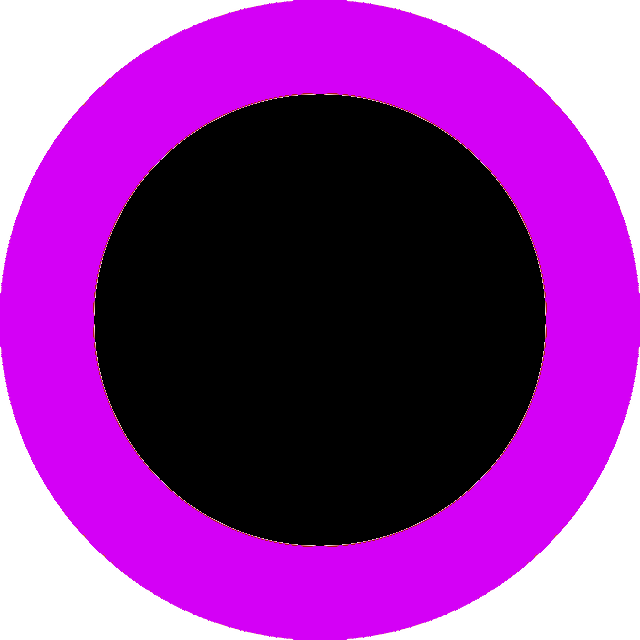
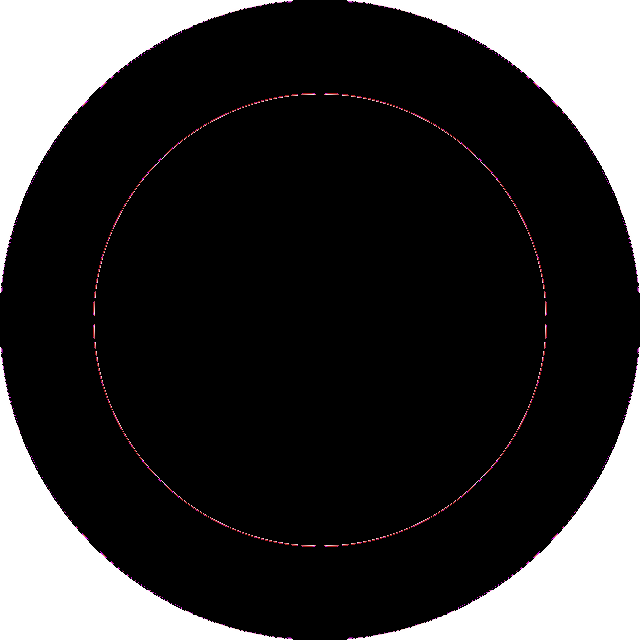
added background repeat image and opacity

diff --git a/src/components/ButtonPegs.jsx b/src/components/ButtonPegs.jsx
@@ -7,15 +7,15 @@ function ButtonPegs(){
 
 
 
-        const [currentColor, setCurrentColor] = useState("purple");
+        const [currentColor, setCurrentColor] = useState("white");
       
         const colors = {
-          red: { backgroundColor: "red",border:"solid", borderRadius:"10px", borderColor:"black" },
-          purple: { backgroundColor: "purple",border:"solid", borderRadius:"10px", borderColor:"black" },
-          green: { backgroundColor: "green",border:"solid", borderRadius:"10px", borderColor:"black" },
-          orange: { backgroundColor: "orange",border:"solid", borderRadius:"10px", borderColor:"black" },
-          blue: { backgroundColor: "blue",border:"solid", borderRadius:"10px", borderColor:"black" },
-          gray: { backgroundColor: "grey",border:"solid", borderRadius:"10px", borderColor:"black" },
+          red: { backgroundColor: "rgba(255, 0, 0, 0.50)",border:"solid", borderRadius:"10px", borderColor:"black", padding:"20px" },
+          purple: { backgroundColor: "rgba(162, 0, 255, 0.50)",border:"solid", borderRadius:"10px", borderColor:"black", padding:"20px" },
+          green: { backgroundColor: "rgba(0, 255, 0, 0.50)",border:"solid", borderRadius:"10px", borderColor:"black", padding:"20px" },
+          orange: { backgroundColor: "rgba(255, 187, 0, 0.50)",border:"solid", borderRadius:"10px", borderColor:"black", padding:"20px" },
+          blue: { backgroundColor: "rgba(0, 0, 255, 0.50)",border:"solid", borderRadius:"10px", borderColor:"black", padding:"20px" },
+          gray: { backgroundColor: "rgba(161, 161, 161, 0.50)",border:"solid", borderRadius:"10px", borderColor:"black", padding:"20px" },
         };
       function Red(){
         setCurrentColor("red")

diff --git a/src/App.css b/src/App.css
@@ -61,7 +61,11 @@ input[type=text], select {
   border-radius: 4px;
   box-sizing: border-box;
 }
-/* 
+
 body{
-  background-color: rgb(253, 246, 233);
-} */
+  background-image: url("./floral.png");
+  background-repeat: repeat;
+background-size: 50px;
+
+
+}
